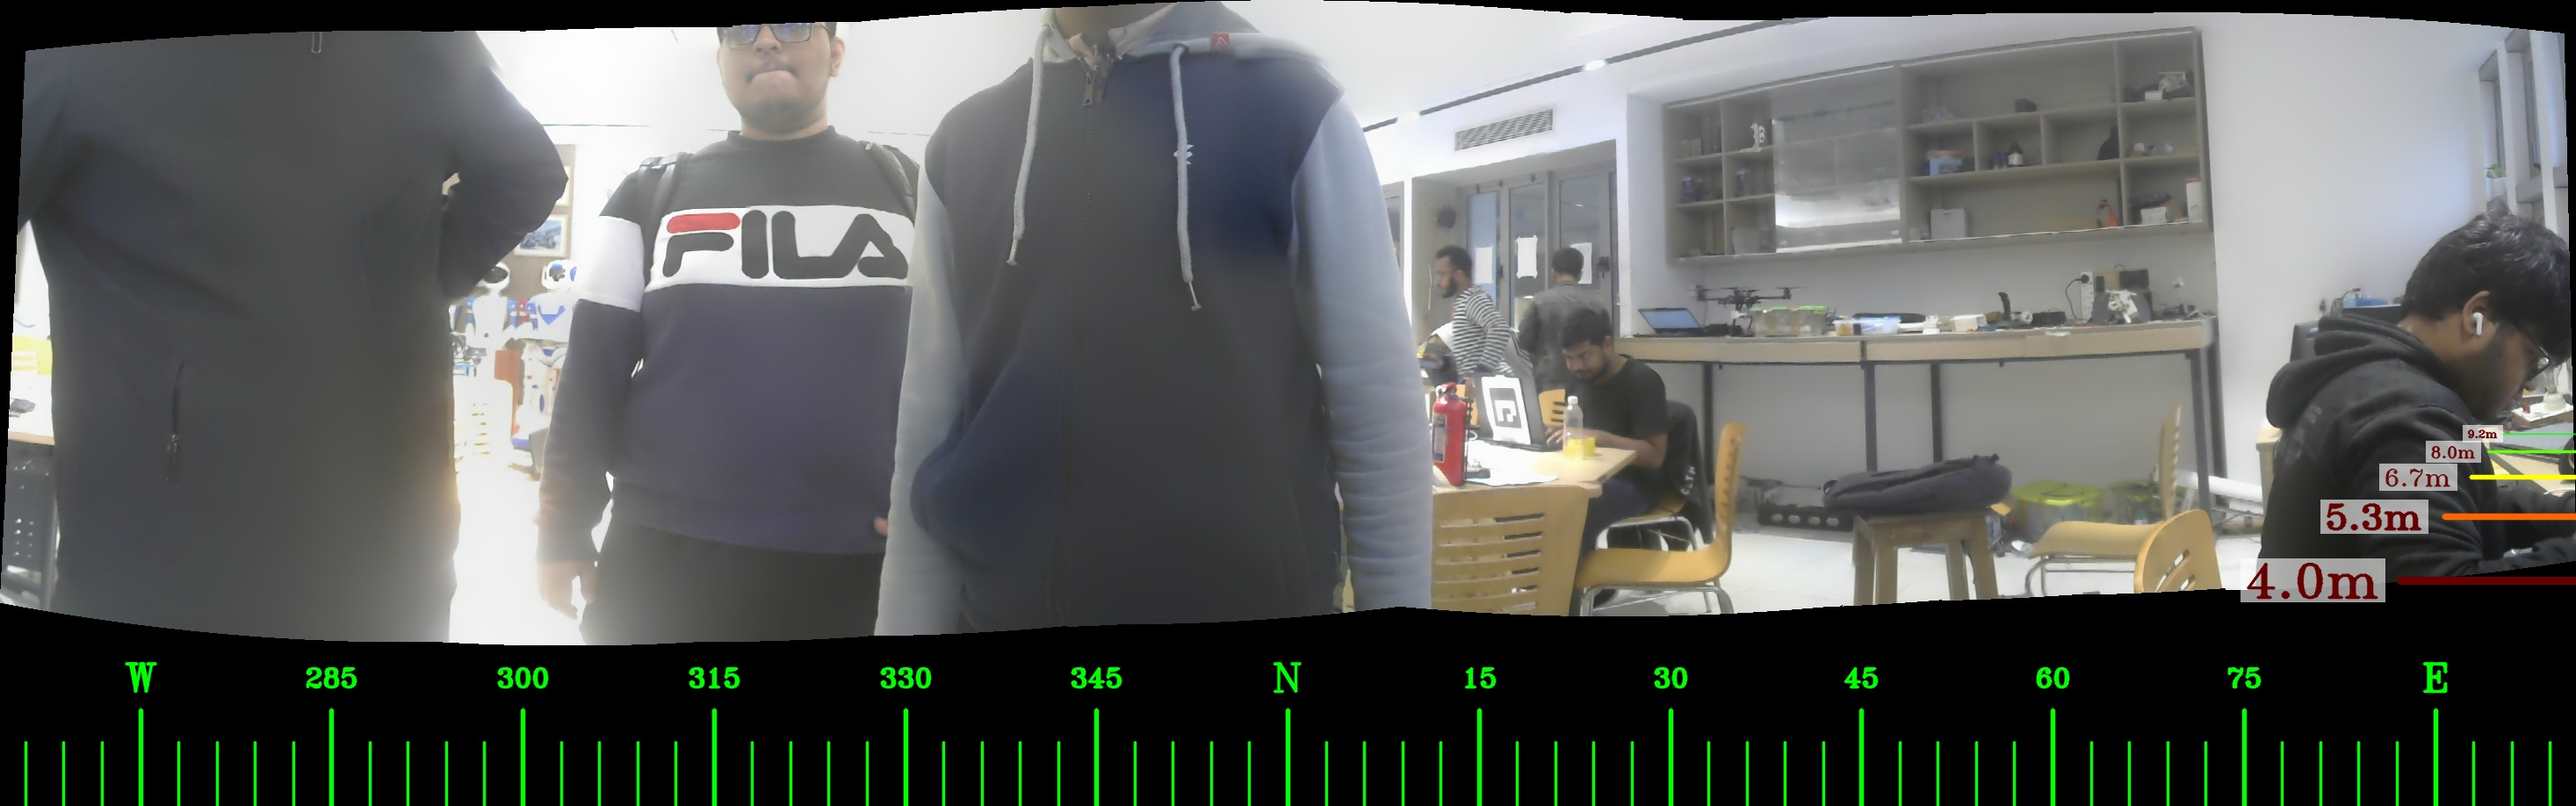
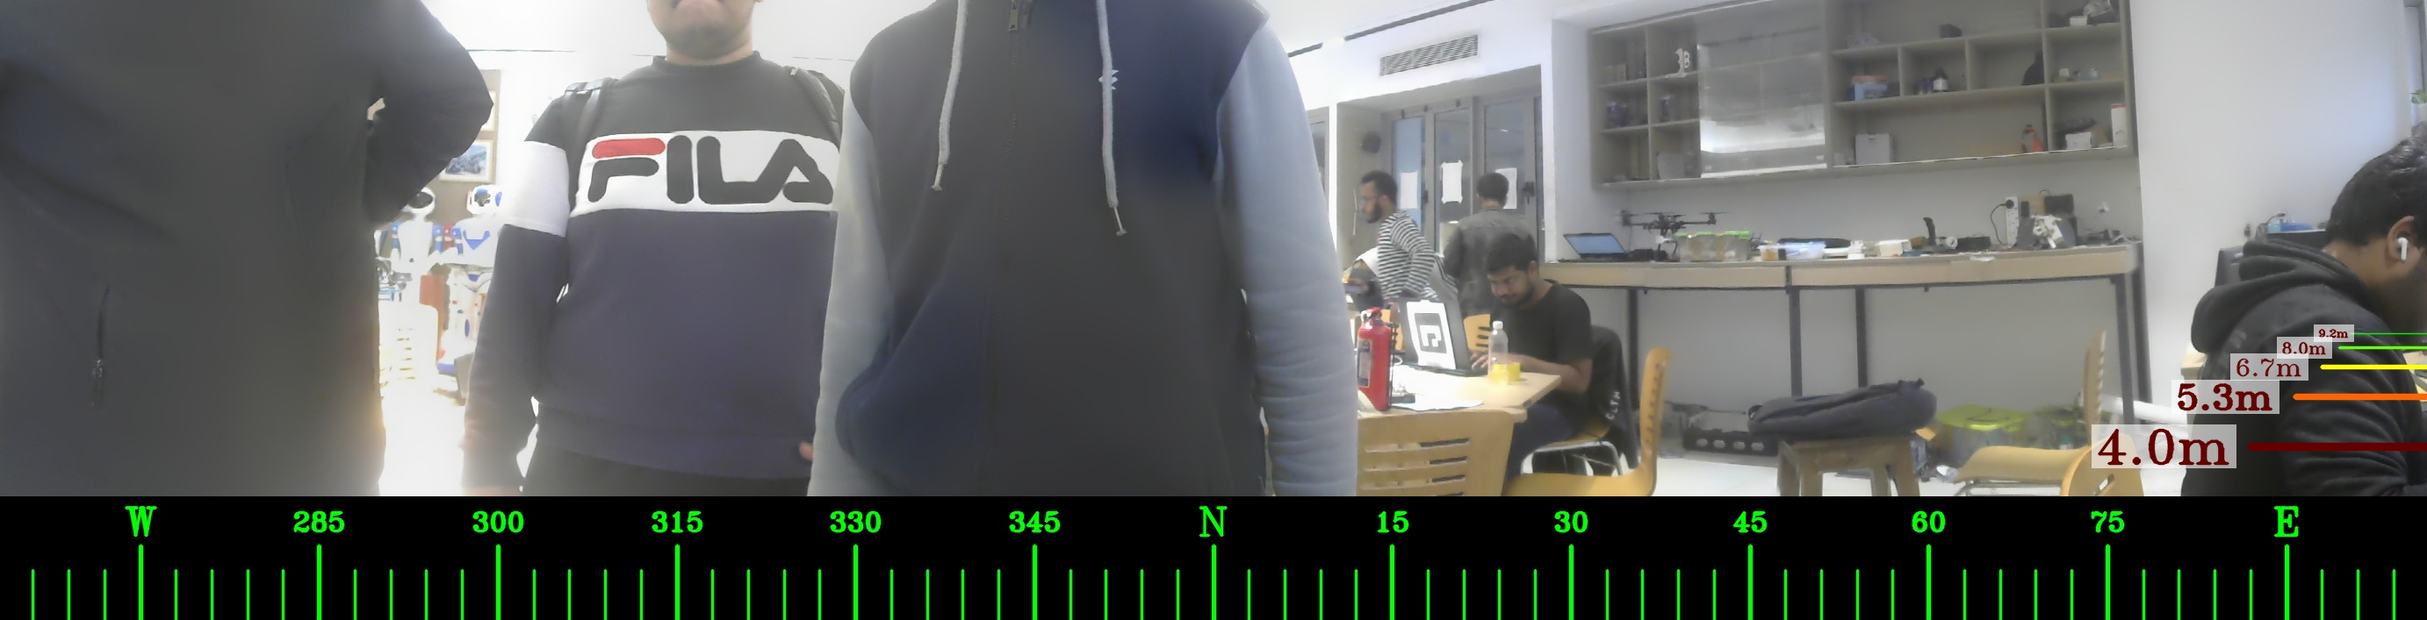
modified:   Servo_Ser/Servo_Ser.ino 	modified:   panorama/overlay.py 	modified:   panorama_marked.jpg

diff --git a/panorama/overlay.py b/panorama/overlay.py
@@ -85,12 +85,48 @@ def overlayAng(img, frameSz = (640, 480), offset = 0, rng = (0, 180)):
             lineV(_img, xp, h*0.9+bh, 2)
     return _img
 
+def crop(img):
+    stitched_img = cv2.copyMakeBorder(img, 10, 10, 10, 10, cv2.BORDER_CONSTANT, (0,0,0))
+
+    gray = cv2.cvtColor(stitched_img, cv2.COLOR_BGR2GRAY)
+    thresh_img = cv2.threshold(gray, 0, 255 , cv2.THRESH_BINARY)[1]
+
+    contours, _ = cv2.findContours(thresh_img.copy(), cv2.RETR_EXTERNAL, cv2.CHAIN_APPROX_SIMPLE)
+
+    areaOI = max(contours, key=cv2.contourArea)
+
+    mask = np.zeros(thresh_img.shape, dtype="uint8")
+    x, y, w, h = cv2.boundingRect(areaOI)
+    cv2.rectangle(mask, (x,y), (x + w, y + h), 255, -1)
+
+    minRectangle = mask.copy()
+    sub = mask.copy()
+
+    while cv2.countNonZero(sub) > 0:
+        minRectangle = cv2.erode(minRectangle, None)
+        sub = cv2.subtract(minRectangle, thresh_img)
+
+
+    contours, _ = cv2.findContours(minRectangle.copy(), cv2.RETR_EXTERNAL, cv2.CHAIN_APPROX_SIMPLE)
+
+    areaOI = max(contours, key=cv2.contourArea)
+
+    x, y, w, h = cv2.boundingRect(areaOI)
+
+    stitched_img = stitched_img[y:y + h, x:x + w]
+
+    return stitched_img
+
 if(__name__ == "__main__"):
     img = cv2.imread("panorama.jpg")
     if(img is None):
         print("No image")
         exit()
     
+    img = crop(img)
+
+    cv2.imshow('crop', img)
+
     img = overlayScale(img)
     img = overlayAng(img, offset=-90)
     cv2.imshow('overlay', img)
